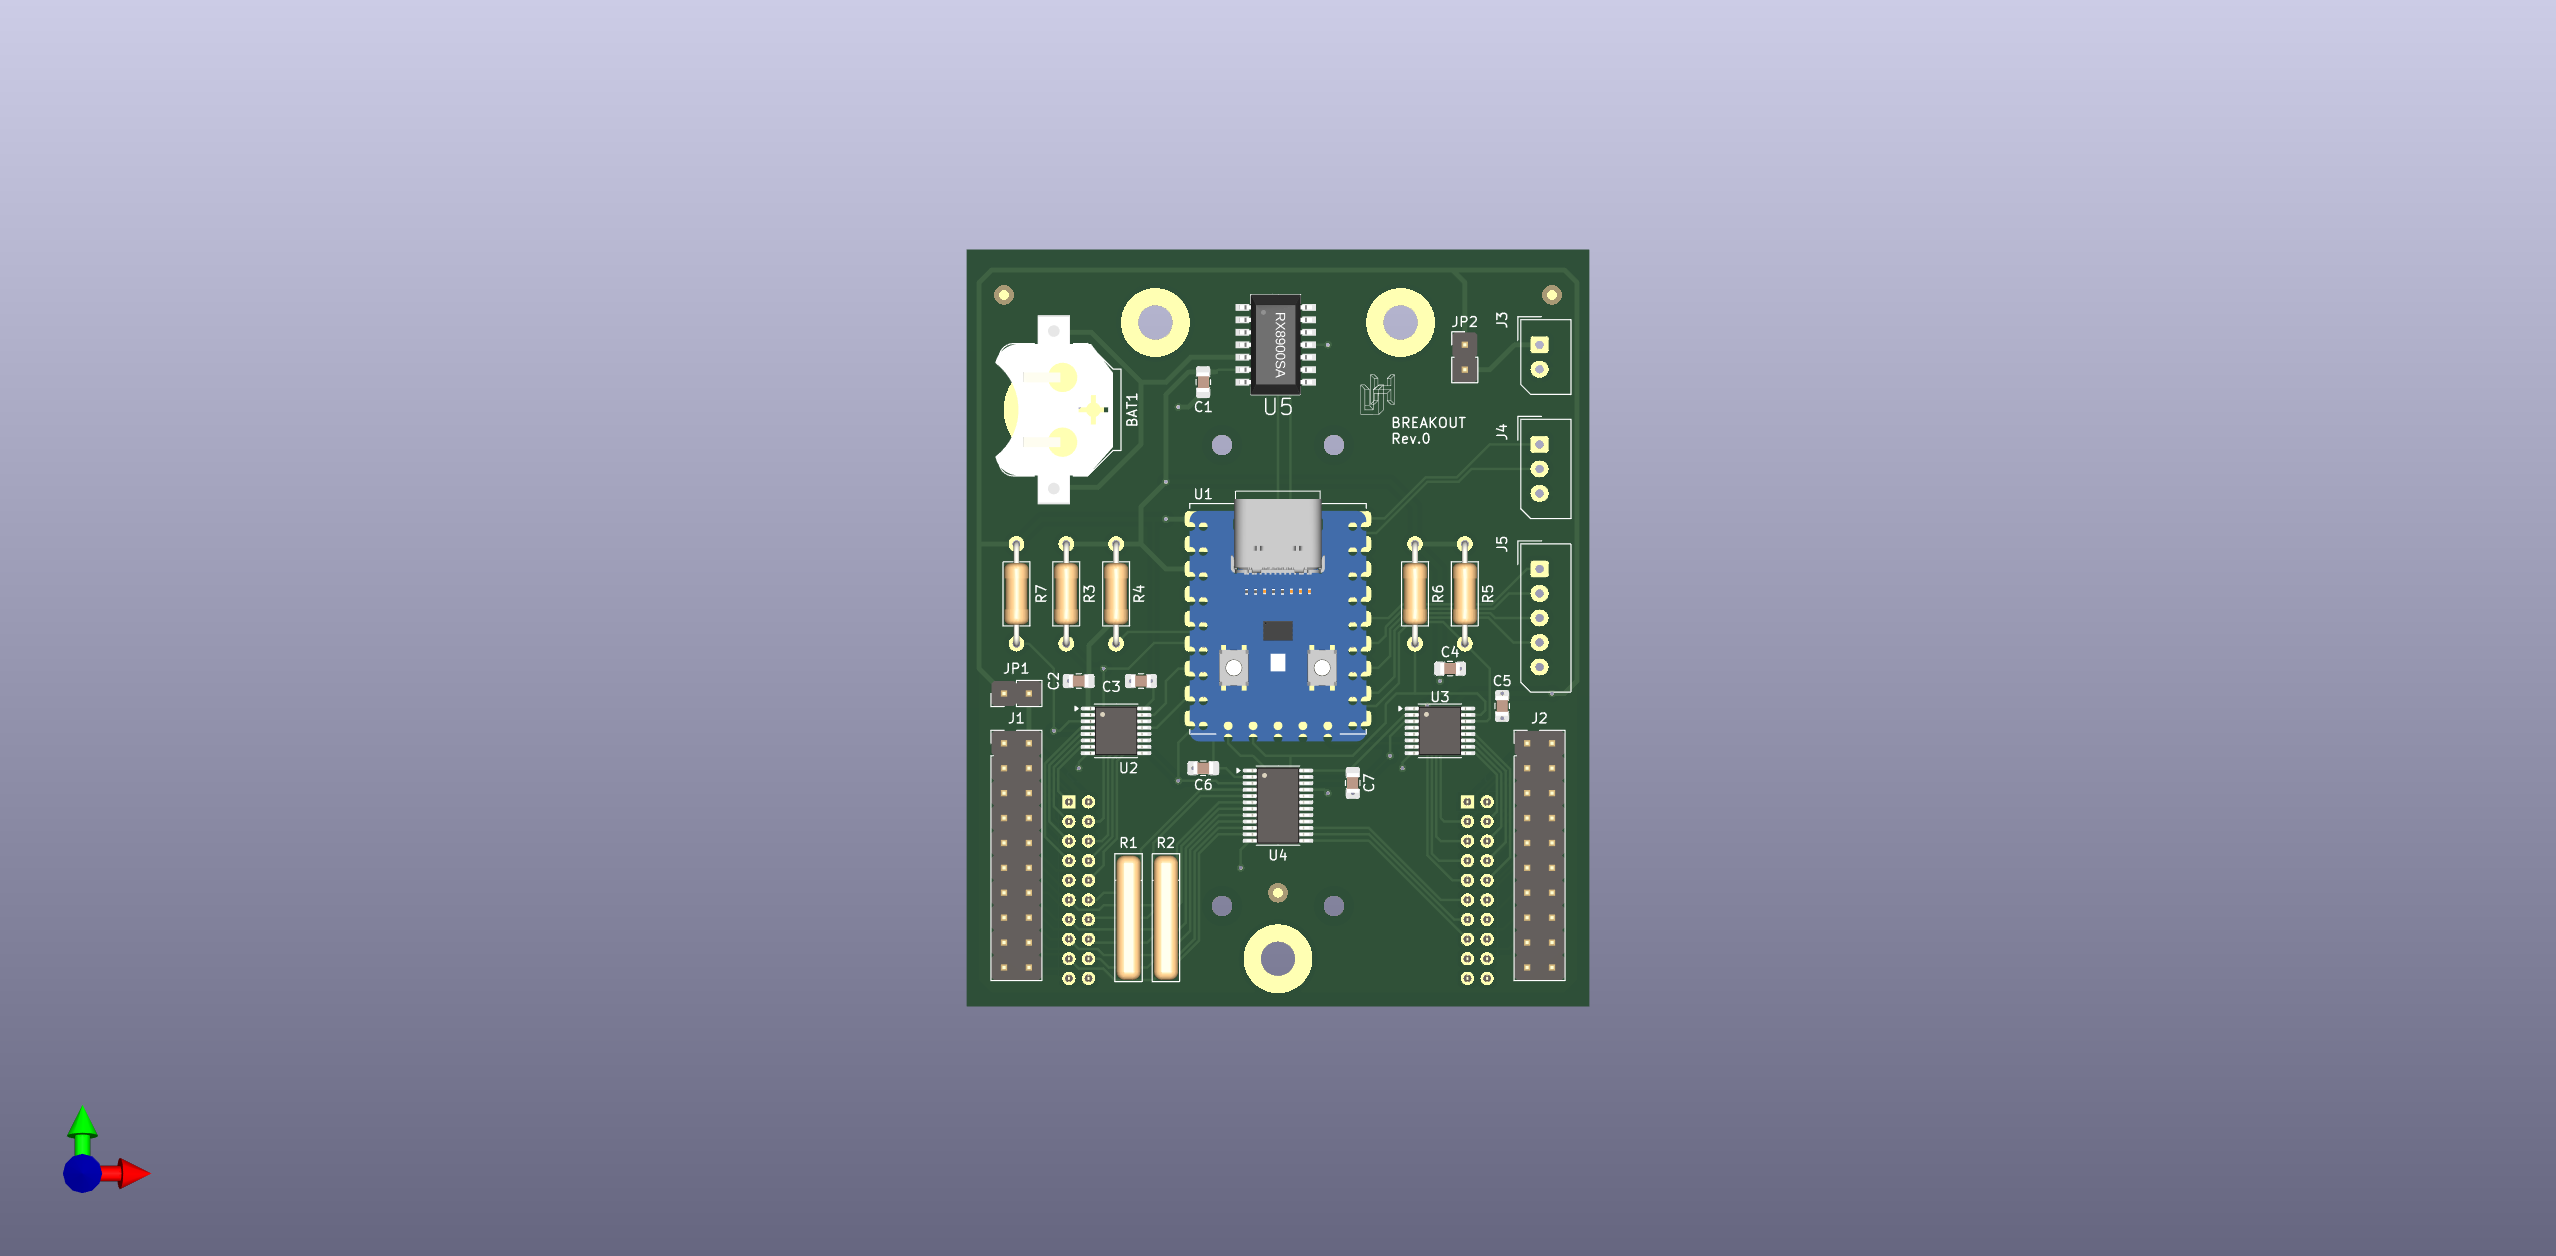
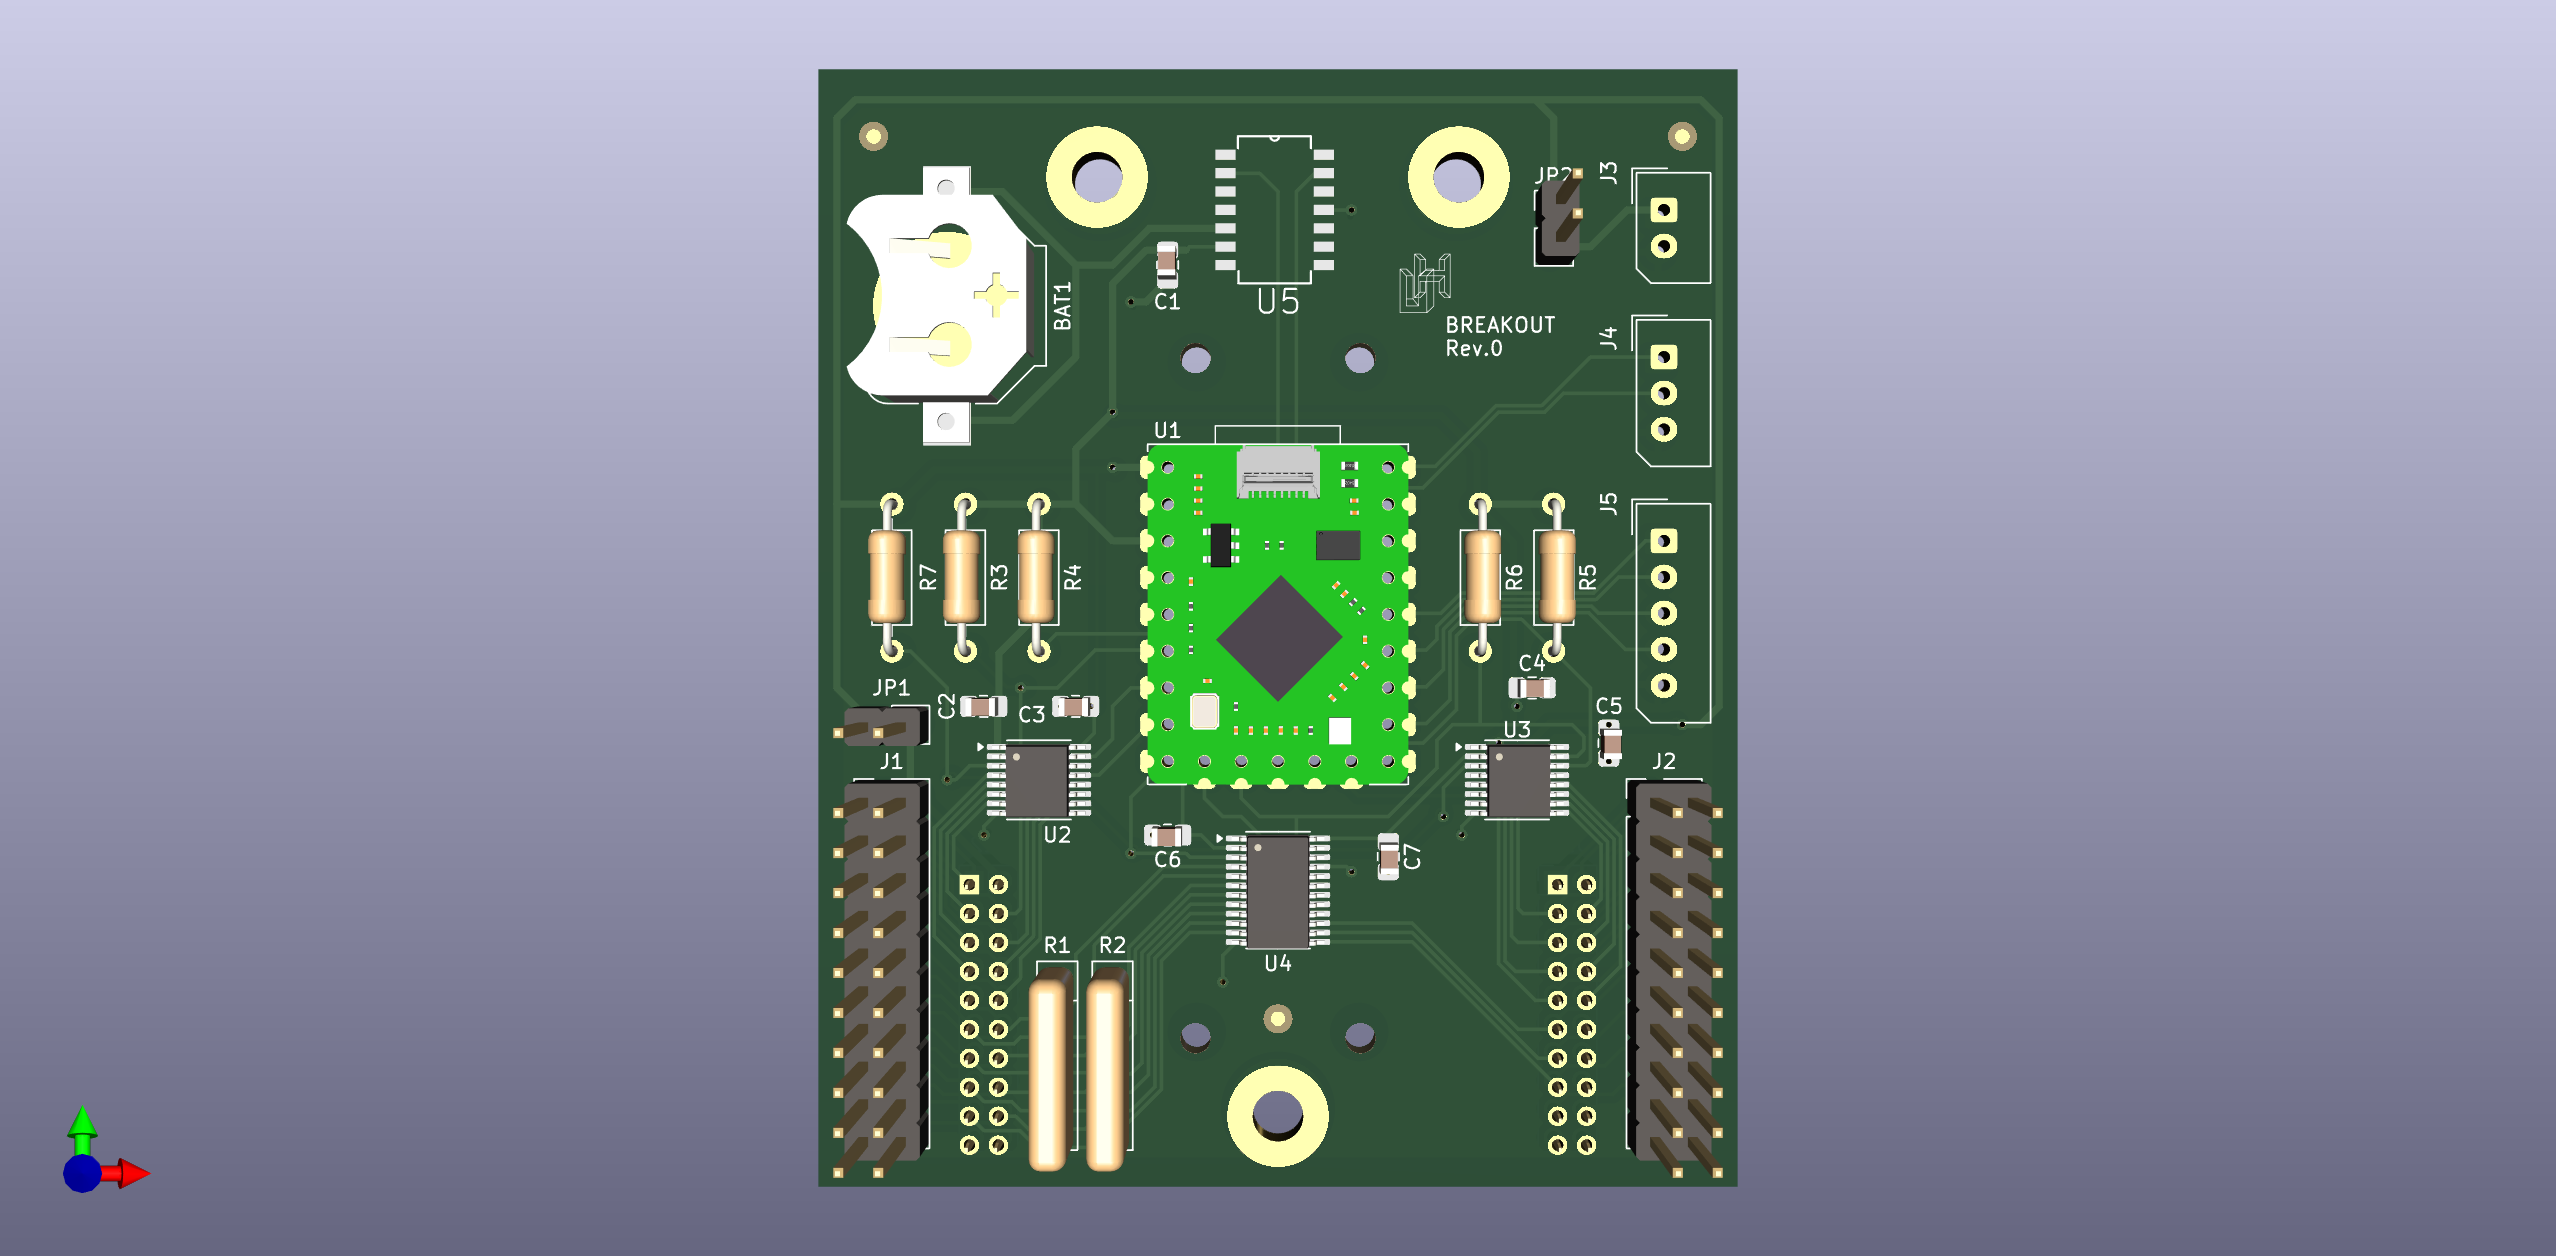
Fixed RP2040-Tiny 3D model offset

Changed region(s): [[0.3091, 0.0311, 0.68, 0.9626]]

diff --git a/README.md b/README.md
@@ -25,6 +25,10 @@ Initial proof of concept, designed to be relatively easy to hand solder and debu
 <img width="640" src="documentation/images/front.png">
 <img width="640" src="documentation/images/back.png">
 
+### Errata
+1. Requires Schottky barrier diode and resistor on RX8900SA backup battery.
+
+
 ## Notes
 
 ### Footprints

diff --git a/Rev.0/NOTES.md b/Rev.0/NOTES.md
@@ -13,6 +13,9 @@
    - 2x10P header pins
 10. https://www.chipquik.com/store/product_info.php?products_id=1900050
 11. R1 and R2 - maybe increase resistance (2.5K? 10K?)
+12. Slightly larger pads for soldering
+13. 0805 resistors and capacitors
+14. Fix logo
 
 ### RX8900SA
 1. Decoupling capacitor on VBAT

diff --git a/TODO.md b/TODO.md
@@ -4,6 +4,9 @@
    - [x] Fix schematic for RP2040 Tiny (https://www.waveshare.com/rp2040-tiny.htm)
    - [ ] Bring-up checklist
 
+## PiZeroW
+   - [ ] 24/7 operation: ask Cam
+
 ### OTA
    - https://blog.usedbytes.com/2021/12/pico-serial-bootloader/
 
